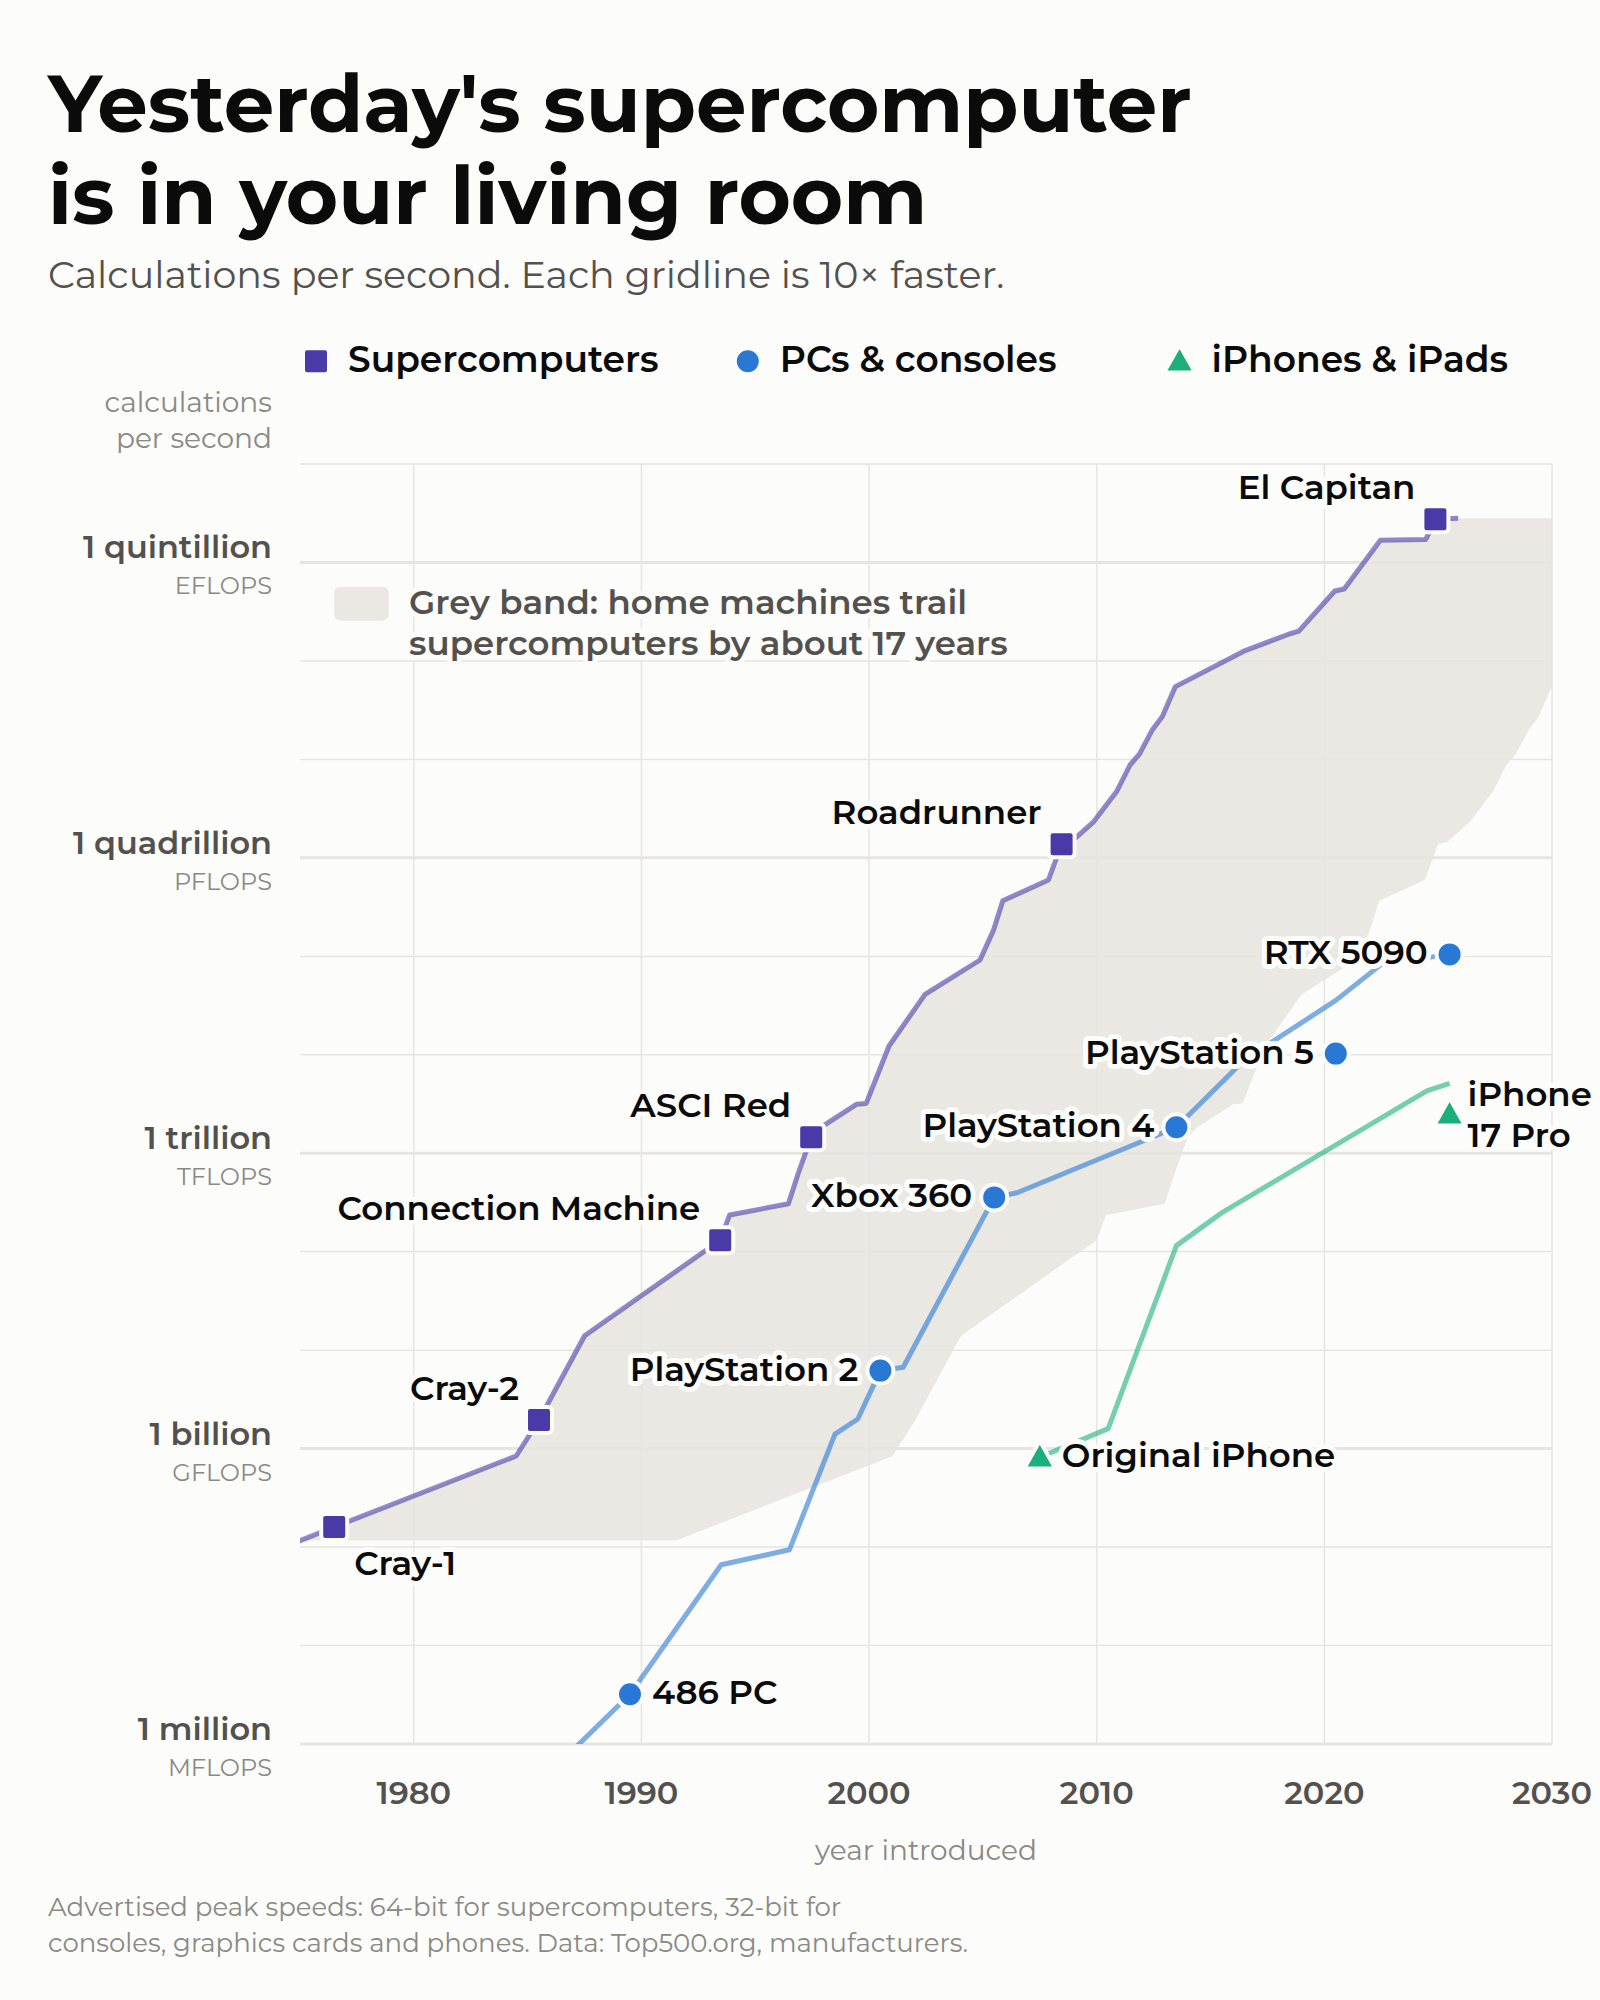
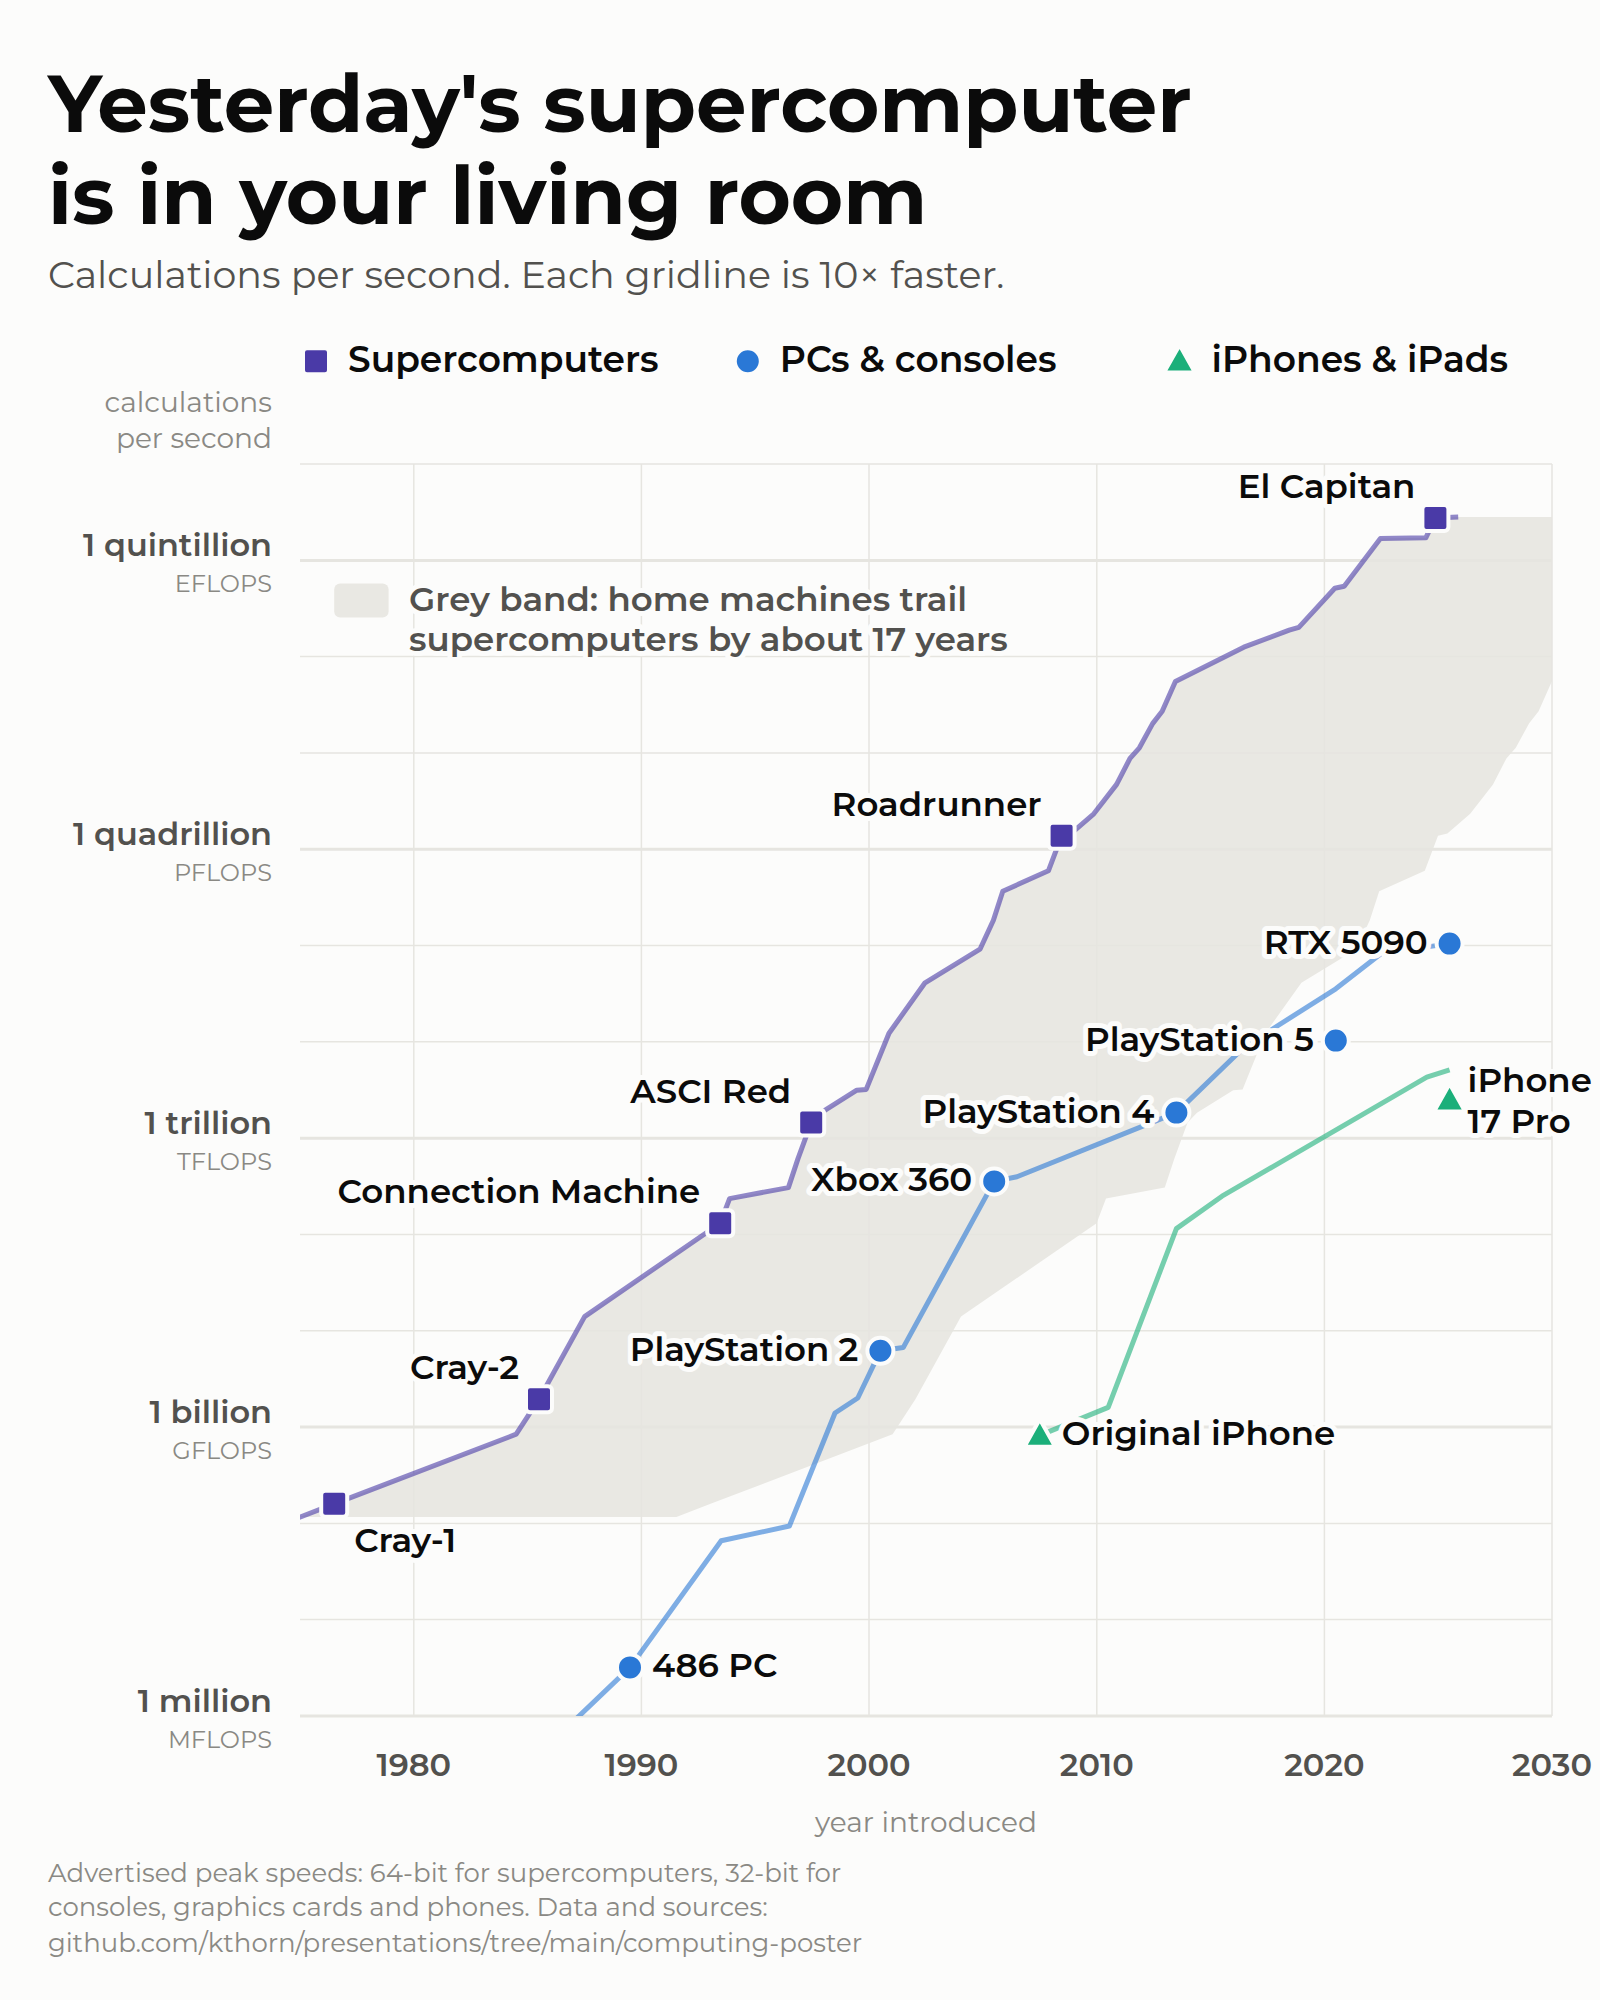
Link the poster folder in both chart footers

diff --git a/computing-poster/make_chart.py b/computing-poster/make_chart.py
@@ -31,6 +31,7 @@ GROUP = {"tablet": "phone", "pc": "home", "console": "home"}
 PREFIXES = [(3, "thousand", "kFLOPS"), (6, "million", "MFLOPS"), (9, "billion", "GFLOPS"),
             (12, "trillion", "TFLOPS"), (15, "quadrillion", "PFLOPS"), (18, "quintillion", "EFLOPS")]
 MONTH = {"Jun": 6, "Nov": 11}
+REPO = "github.com/kthorn/presentations/tree/main/computing-poster"
 
 
 @dataclass(frozen=True)
@@ -76,7 +77,7 @@ POSTER = Layout(
     subtitle=("Peak calculations per second, log scale. Each step up the grid is ten times faster.",),
     footnote=("Peak floating-point operations per second. Supercomputers rated at 64-bit precision (Top500 Rpeak); "
               "consoles, graphics cards and phones at their advertised 32-bit figure. Each line follows the best "
-              "machine so far. Sources: data/machines.csv",),
+              f"machine so far. Data and sources: {REPO}",),
     legend={"supercomputer": "World's fastest supercomputer", "home": "Home PCs &amp; game consoles",
             "phone": "iPhones &amp; iPads"},
     labels={
@@ -102,11 +103,11 @@ POSTER = Layout(
 )
 
 MOBILE = Layout(
-    out="chart-mobile", W=800, H=1000, margins=(150, 24, 232, 128),
+    out="chart-mobile", W=800, H=1000, margins=(150, 24, 232, 142),
     title=("Yesterday's supercomputer", "is in your living room"),
     subtitle=("Calculations per second. Each gridline is 10× faster.",),
     footnote=("Advertised peak speeds: 64-bit for supercomputers, 32-bit for",
-              "consoles, graphics cards and phones. Data: Top500.org, manufacturers."),
+              "consoles, graphics cards and phones. Data and sources:", REPO),
     legend={"supercomputer": "Supercomputers", "home": "PCs &amp; consoles", "phone": "iPhones &amp; iPads"},
     labels={
         "Cray-1": (10, 24, "start"), "Cray-2": (-10, -10, "end"),
